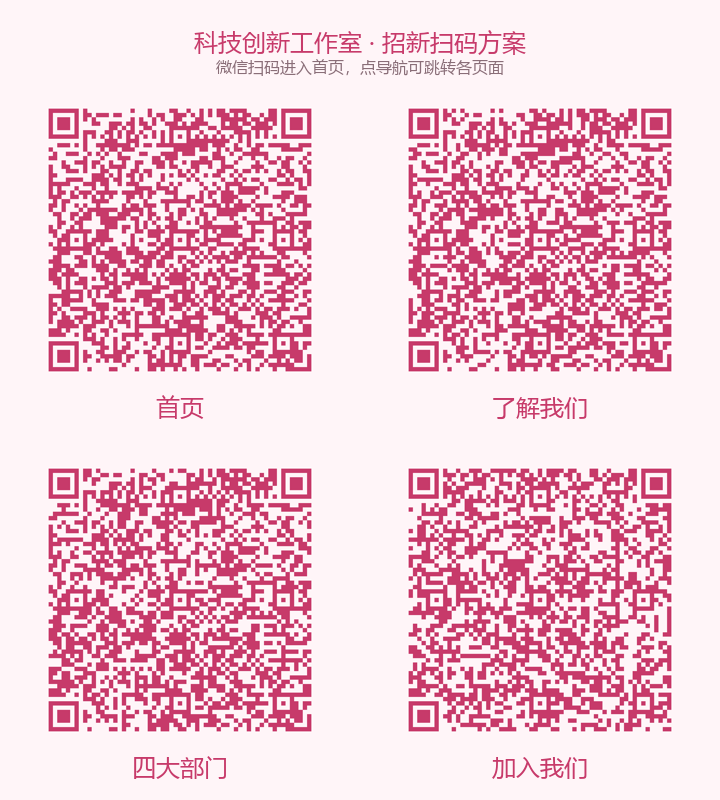
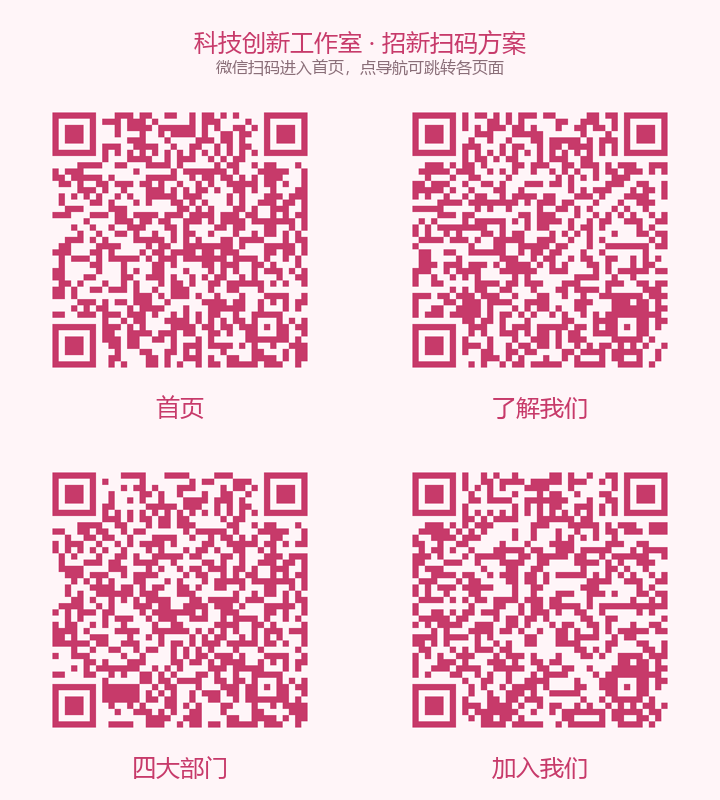
feat: 切换到 GitHub Pages 永久链接，重新生成所有二维码

diff --git a/make-qr.py b/make-qr.py
@@ -2,8 +2,7 @@ import qrcode
 from PIL import Image, ImageDraw, ImageFont
 import os
 
-token = "?eo_token=8bfda169d4f1b71138ac17cf3e7c2b0d&eo_time=1789129713"
-base = "https://jkc-club-recruit-web-oodut5jc.edgeone.cool" + token
+base = "https://aqr325.github.io/club-recruit-web"
 pages = [
     ("首页", base + "/v1-cute.html"),
     ("了解我们", base + "/about.html"),
